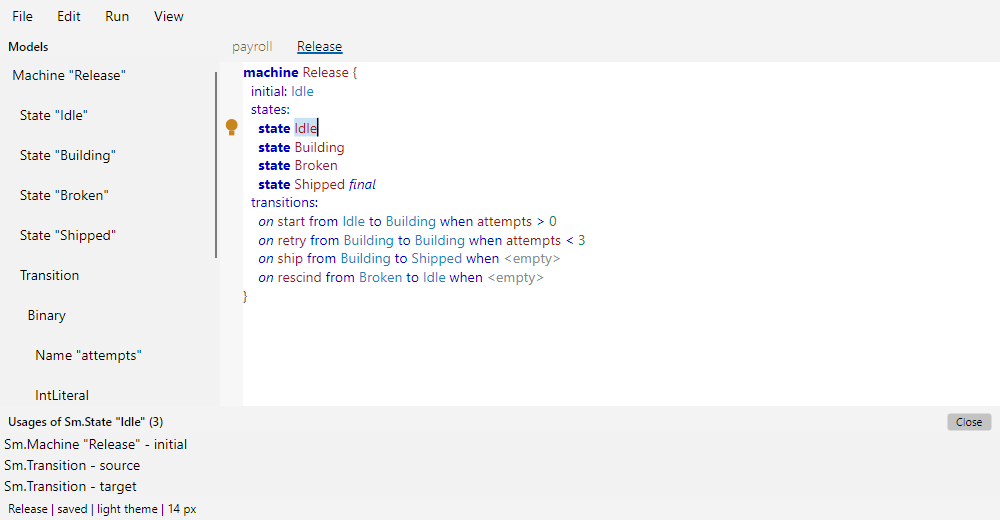
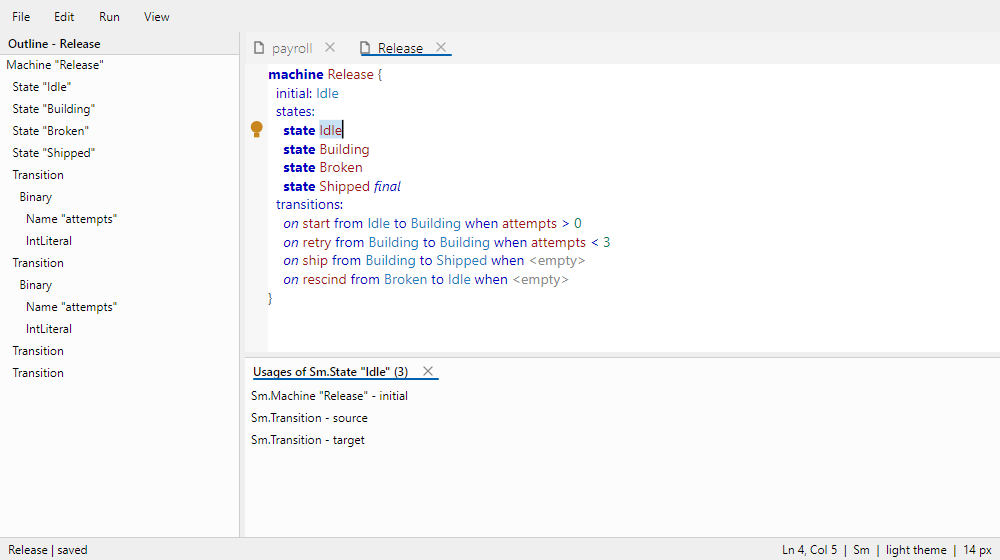
docs: the shell's panel area, the caret's place and refreshed shell images
standalone.md still described the panels as stacking above the status bar and the usages list as
sitting above the problems panel; both are tabs of one area now, and the document says what
decides whether a tab is there. implemented.md records the chrome itself. The five shell
pictures are re-rendered from the shipping window, which is also where the strip, the tab
headers, the empty page and the one-line status bar are checked - the editor pictures came out
byte-identical, which is the evidence that the control still draws what it drew.

The harness windows are a little taller so a picture shows a document and a panel rather than a
strip with no page above it.

diff --git a/tools/Projectional.Screenshots/ShellShots.cs b/tools/Projectional.Screenshots/ShellShots.cs
@@ -21,16 +21,17 @@ internal static class ShellShots
 {
     /// <summary>Everything to capture, in the order the README presents the features.</summary>
     /// <remarks>
-    /// The sizes are the window's own rather than a crop, so there is enough page for the document and enough
-    /// panel for its rows but no empty third of a window: the outline is a column, the output panel is a strip.
+    /// The sizes are the window's own rather than a crop, so there is enough page for a document and enough
+    /// strip for the panel area's tabs and rows: the outline is a column, and Output, Problems and Usages are
+    /// tabs of one area rather than three stacked panels.
     /// </remarks>
     internal static IReadOnlyList<ShellShot> All { get; } =
     [
-        new("feature-run-output", ShowRunOutput, Width: 700, Height: 300),
-        new("feature-generate-output", ShowGeneratedText, Width: 700, Height: 250),
-        new("feature-run-tests", ShowTestRun, Width: 820, Height: 320),
-        new("feature-import-file", ShowImportedDocument, Width: 700, Height: 470),
-        new("feature-find-usages", ShowFindUsagesAndDefinition, Width: 1000, Height: 520),
+        new("feature-run-output", ShowRunOutput, Width: 720, Height: 380),
+        new("feature-generate-output", ShowGeneratedText, Width: 720, Height: 340),
+        new("feature-run-tests", ShowTestRun, Width: 840, Height: 420),
+        new("feature-import-file", ShowImportedDocument, Width: 720, Height: 520),
+        new("feature-find-usages", ShowFindUsagesAndDefinition, Width: 1000, Height: 560),
     ];
 
     /// <summary>Imports an ini-shaped file into a document of the language that declares a rule for it.</summary>

diff --git a/docs/architecture/standalone.md b/docs/architecture/standalone.md
@@ -43,11 +43,11 @@ shell.
 | Part | Responsibility | Appears |
 | --- | --- | --- |
 | `App` / `Program` | lifetime, service wiring, theme, unhandled exception reporting | M1 |
-| `MainWindow` | layout skeleton, menus, toolbar, status bar | M1 |
+| `MainWindow` | layout skeleton, menus, the panel area and its splitter, status bar | M1 |
 | `DocumentTab` + `DocumentSet` | open documents, active document, per-document session and undo | M1 |
 | `ProjectDriver` | open a project, enumerate models, save, watch files | M1 |
 | `CommandRegistry` | named commands with `CanExecute` and a shortcut table | M1 |
-| model browser | tree of models and their root elements - **delivered** as a left panel listing every node of the active document, clicking a row puts the caret on it (`Outline/`) | M2 |
+| model browser | tree of models and their root elements - **delivered** as a resizable left column (a splitter and a `MinWidth`) listing every node of the active document, its header naming that document, clicking a row puts the caret on it (`Outline/`) | M2 |
 | language browser | declared languages in the project, open their definitions | M5 |
 | problems panel | diagnostics of the active document, in document order, jumping to the cell the finding is about - **delivered** in `MainWindow` + `Problems/` (M2) | M2 |
 | recent files | the last ten opened or saved files, remembered between runs - **delivered** in `Documents/RecentFiles` + `TextRecentFilesStore` | M2 |
@@ -263,15 +263,16 @@ because a button that stays dead until the user has searched is one they cannot 
 
 ### Find usages
 
-**View ▸ Find usages** (`Alt+F7`) answers "who points at this node" and lists the rows in a panel above the
-problems panel. `FindUsages.ReportOf(session)` is the whole question; `UsageList` turns the answer into rows and
+**View ▸ Find usages** (`Alt+F7`) answers "who points at this node" and lists the rows in a tab of the panel area.
+`FindUsages.ReportOf(session)` is the whole question; `UsageList` turns the answer into rows and
 the window only fills a list, moves the caret and says why the panel closed.
 
 - **The gesture is the window's**, like F5: the answer is a shell panel, not something the control can paint over
   the document. A host embedding the control calls the same `FindUsages` entry point and owes its own list.
 - **The panel stays up only while its target exists.** An edit re-asks about the *same node* (the id is kept, not
-  the caret), a deleted target closes it, and switching to a document of another project closes it too. A Close
-  button in the header is the deliberate way to give the page its height back.
+  the caret), a deleted target closes it, and switching to a document of another project closes it too. Its tab's
+  close button is the deliberate way to give the page its height back, and **View ▸ Panels** brings the answer
+  back without asking the caret again.
 - **An empty list is shown.** Unlike the problems panel, "nothing points here" is the answer the user asked for.
 - **A usage in another model says which model**, because a project is several documents; choosing the row opens
   that document's tab when it is open, and says so when it is not. A reference the notation hides has no cell, so
@@ -393,9 +394,26 @@ Both checks answer with fixes rather than with bare diagnostics, and the window 
 from them: a fix carries the finding it repairs, so one list produces both sets and they cannot
 describe different states of the document.
 
+### The panel area
+
+The panels share one area under the document instead of stacking: Output, Problems and Usages are tabs of a strip
+whose height a splitter sets, so three open answers cost one strip and never three.
+
+- **One area, three tabs.** A tab is in the strip only while it has something to show - a run, a finding, a usage -
+  and the strip is hidden when the last one leaves. `MainWindow.ShowPanel` is the one place that decides it, and
+  it keeps two questions apart: the content says whether a panel *may* show, and a flag per panel says whether the
+  user closed it.
+- **A tab can be closed, and the menu is the way back.** Closing one is a deliberate "not now" that a re-derived
+  list must not undo: a problem list that came back on the next keystroke would be a panel the user cannot get rid
+  of. A run, a find-usages gesture or **View ▸ Panels** is what opens it again.
+- **The document keeps a floor.** The splitter moves the strip between the document and the panel area, and the
+  document's row carries a `MinHeight`, so the panel can never be dragged over the page.
+- **The outline is a column with a splitter too**, and its header names the document it lists: a panel called
+  "Models" that lists one document's nodes describes something nobody is looking at.
+
 ### The problems panel
 
-`Problems/ProblemList.cs` turns that same list into rows, and `MainWindow` shows them above the status bar.
+`Problems/ProblemList.cs` turns that same list into rows, and `MainWindow` shows them in a tab of the panel area.
 The panel reads the findings the editor is drawing rather than running the checks again, so a squiggle and a
 row cannot disagree about what was found.
 
@@ -408,8 +426,9 @@ row cannot disagree about what was found.
 - **A finding whose node is gone still gets a row, at the end.** The set is a snapshot taken when the model
   changed; a panel that hid a stale finding would be claiming the document is clean at the moment it is
   least known to be.
-- **An empty list hides the panel.** "No problems" is the state of a document most of the time, and it does
-  not deserve a third of the window; the count is in the header for the one glance that needs it.
+- **An empty list hides the tab.** "No problems" is the state of a document most of the time, and a tab that
+  said so would take a strip of the window to say nothing; the count is in the tab's header for the one glance
+  that needs it.
 
 Three things that follow, and that a host has to do as well:
 

diff --git a/docs/implemented.md b/docs/implemented.md
@@ -281,6 +281,7 @@ alone, and `docs/architecture/standalone.md` describes the extraction M6 owns.
 | CI: Release build and tests on Windows and Linux, corpus job on Linux, one-package-per-project `pack` job and a tag-gated `publish-nuget` job | `.github/workflows/ci.yml` | the workflow |
 | Byte-identical round trip over the whole corpus | `tests/Projectional.Core.Tests/Corpus/` | `CorpusTests` |
 | What a full recheck costs, measured rather than argued: layout, constraints, checks and one rechecked node for a document of each size, in two languages | `tools/Projectional.Benchmarks/` | `dotnet run -c Release --project tools/Projectional.Benchmarks`; the numbers it answered with are recorded in [constraints.md](architecture/semantics/constraints.md#what-a-full-recheck-costs) |
+| The shell's chrome: one panel area under the document instead of three stacked borders - Output, Problems and Usages are tabs of a strip that a `GridSplitter` resizes, each tab closable from its own header and reopened from **View ▸ Panels**, and the strip disappears when the last tab does. The outline is a resizable column whose header names the document it lists. The Edit menu gains Undo/Redo/Cut/Copy/Paste/Select all, the five "new ..." commands move under **File ▸ New**, and every gesture is *displayed* right-aligned (`InputGesture`) rather than spelled into the header - the editor control still owns the keys. A tab carries a close button beside its dirty star, the status bar is one line (document and dirty state left, the last command's answer in the middle, `Ln`/`Col`, language, theme and size right), a window with nothing open shows a page instead of a white rectangle, the find bar keeps its replace row folded until it is asked for (`Ctrl+H`, or the toggle), and the surfaces, type sizes and row heights are named resources in one style block instead of a font size beside every control | `Projectional.Workbench/MainWindow.axaml` (the theme dictionaries, the style block, the panel tabs, both splitters, the tab header template of the strip), `MainWindow.axaml.cs` (`ShowPanel`/`UpdatePanelArea`/`RevealOutput`, `OnUndo`-`OnSelectAll`, `UpdateStatusDetail`, `OnCaretMoved`), `Documents/DocumentTabHeader`, `Projectional.Editing/CaretSpot`, `Projectional.Avalonia` (`ProjectionalEditorControl.SelectionChanged`) | `CaretSpotTests` (a nested node's row, the column into the caret's cell, the end of a value, and a hard-wrapped second line starting its column again); the rest is wiring, and `tools/Projectional.Screenshots` renders the shipping window, which is where the strip, the tab headers, the empty page and the one-line status bar are checked |
 
 ## What is not here
 

diff --git a/.github/skills/projectional-editor/guide-avalonia.md b/.github/skills/projectional-editor/guide-avalonia.md
@@ -298,6 +298,18 @@ So both import outcomes go to the status line in the importer's own words (`Impo
 importer's refusal for a failure), and a success **with warnings** is still a sentence the user must see: the
 importer reports "kept as raw text" rather than failing, so the host is the only place that can say it.
 
+**The bottom of the shell is one area, not a stack.** Output, Problems and Usages are tabs of a strip under the
+document; `MainWindow.ShowPanel` keeps two questions apart - the content says whether a panel *may* show, and a flag
+per panel says whether the user closed it, because a re-derived list must not reopen a tab the user put away. The
+strip and the outline column are both sized by a `GridSplitter`, and the document's row keeps a `MinHeight` so the
+panel can never be dragged over the page.
+
+**The caret's place is the control's to derive and the shell's to show.** `ProjectionalEditorControl` raises
+`SelectionChanged` from `Show()` - the funnel every edit and every move lands in - and only when the selection
+really changed. `CaretSpot.Of(session)` answers the line and column from the layout: the line is the numbered row
+`LineNumbers` already paints, the column is the caret's characters into its own cell's line, which is the only
+column an offset can name when several cells share a drawn row.
+
 The repository ships two front ends and **one** public surface:
 
 - `Projectional.Avalonia` is the embeddable control. Hosts reference it (which brings `Core`).
